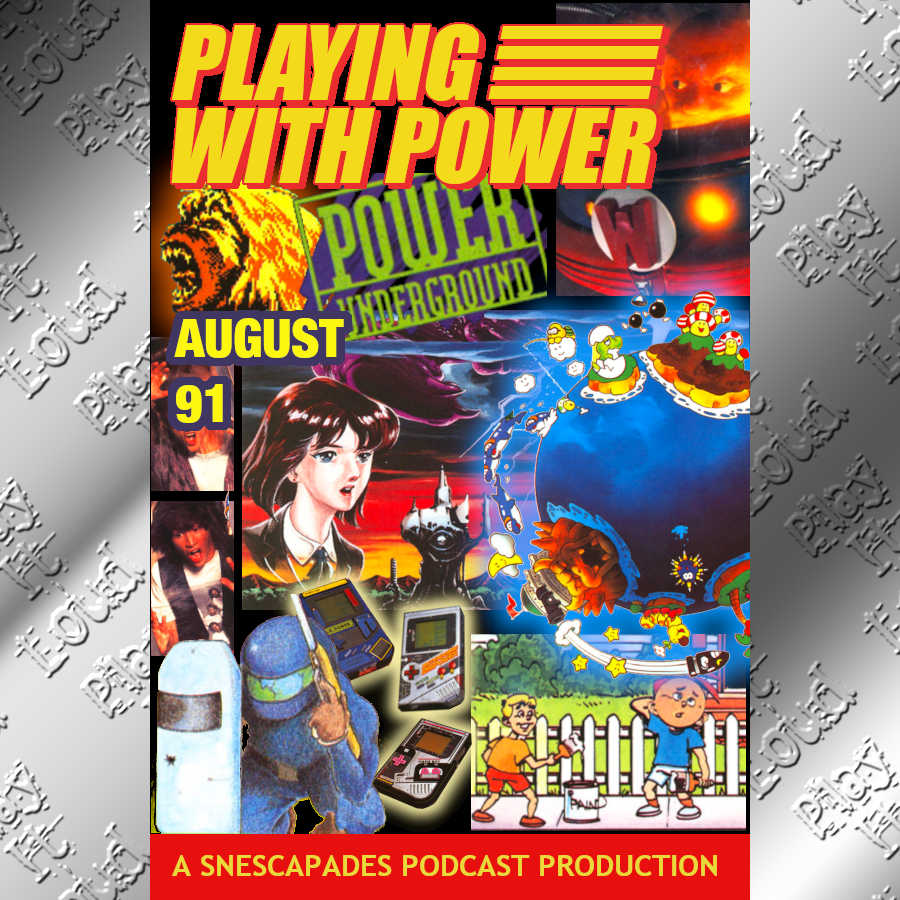
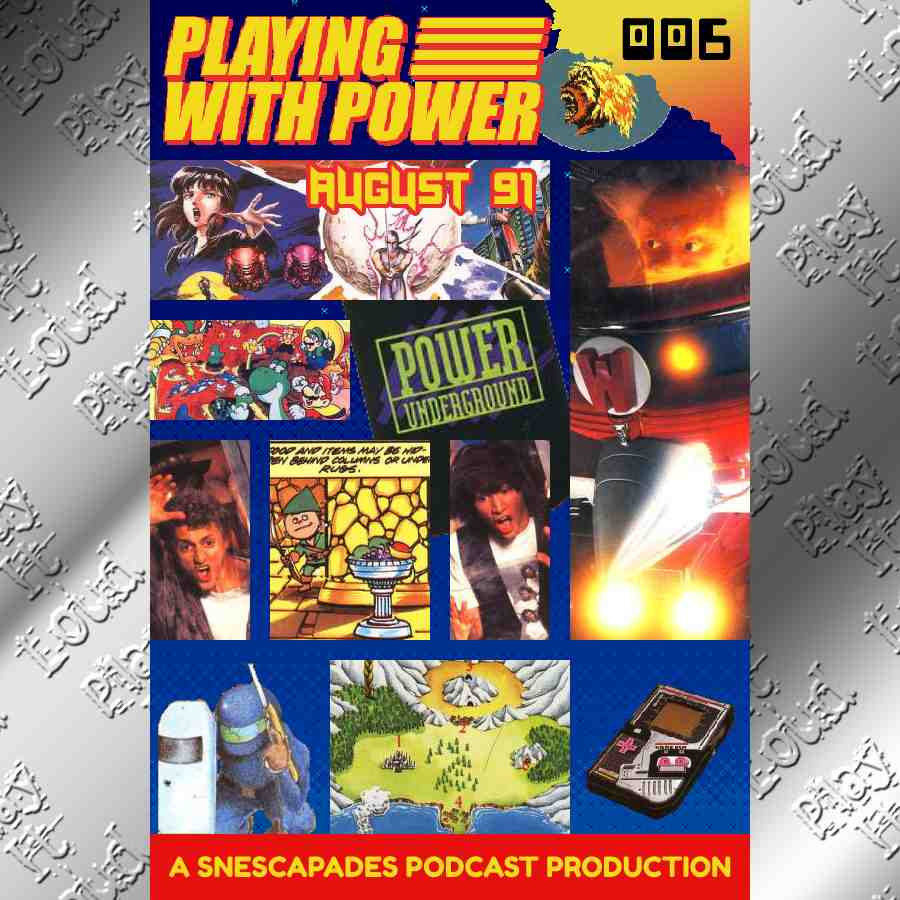
updated podcast images and added two episodes

diff --git a/server/data/episodes/snescapades.ts b/server/data/episodes/snescapades.ts
@@ -247,6 +247,37 @@ const snescapadesEps = [
     altText: playingWithPowerAlt("15th", "September 1991"),
     isPublished: true,
   },
+  {
+    episodeTitle: "Playing with Power: September 1991 (Part 2)",
+    episodeNumber: 16,
+    length: "53:46",
+    published: new Date(2024, monthEnum.mar, 28),
+    embedURL:
+      "https://podcasters.spotify.com/pod/show/honest-piranha/embed/episodes/Playing-with-Power-September-1991-Part-2-e2hn991",
+    youtubeURL: "https://youtu.be/djpD_crcy_c",
+    image: "016_Cover.jpg",
+    blog: "016_pwp_sept_91_2.md",
+    altText: playingWithPowerAlt("15th", "September 1991"),
+    isPublished: true,
+  },
+  {
+    episodeTitle: "U.N. Squadron Edition",
+    episodeNumber: 17,
+    length: "45:36",
+    published: new Date(2024, monthEnum.apr, 4),
+    embedURL:
+      "https://podcasters.spotify.com/pod/show/honest-piranha/embed/episodes/UN-Squadron-Edition-e2i1ajb",
+    youtubeURL: "https://youtu.be/3ycw8ITRaro",
+    image: "017_Cover.jpg",
+    blog: "017_un_squadron.md",
+    games: [27, 28, 29],
+    altText: snescapadesAlt(
+      "17th",
+      "the three selectable characters from UN Squadron",
+      '"UN Squadron", "Super R-Type", and "Drakkhen"'
+    ),
+    isPublished: true,
+  },
 ];
 
 export default snescapadesEps;

diff --git a/server/data/games.ts b/server/data/games.ts
@@ -170,6 +170,24 @@ const allGames = [
     mobyURL: "https://www.mobygames.com/game/9980/lufia-the-fortress-of-doom/",
     rank: "B",
   },
+  {
+    gameTitle: "UN Squadron",
+    manualURL: "https://archive.org/details/u.-n.-squadron-usa/mode/2up",
+    mobyURL: "https://www.mobygames.com/game/8061/un-squadron/",
+    rank: "A",
+  },
+  {
+    gameTitle: "Super R-Type",
+    manualURL: "https://archive.org/details/super-r-type-usa",
+    mobyURL: "https://www.mobygames.com/game/7148/super-r-type/",
+    rank: "B",
+  },
+  {
+    gameTitle: "Drakkhen",
+    manualURL: "https://archive.org/details/drakkhen-usa/mode/2up",
+    mobyURL: "https://www.mobygames.com/game/1969/drakkhen/",
+    rank: "D",
+  },
 ];
 
 export default allGames;

diff --git a/server/data/ranks.ts b/server/data/ranks.ts
@@ -84,12 +84,12 @@ const allRanks = {
     "Pilotwings",
     "Inspector Gadget",
     "Lufia & the Fortress of Doom",
+    "Super R-Type",
   ],
   C: [
     "Ys III: Wanderers from Ys",
     "Super Buster Bros.",
     "Joe & Mac",
-    "Super R-Type",
     "Magic Sword",
     "Dinocity",
     "Super Bomberman",

diff --git a/markdown/017_un_squadron.md b/markdown/017_un_squadron.md
@@ -1,0 +1,9 @@
+## Synopsis
+
+Hey everyone. Welcome to another episode of SNEScapades. We’re talking shooters today. Oh, and I guess Drakkhen’s here too.
+
+The early days of the SNES had plenty of shm’ups to play. Chase and Emmy were a little less kind to Gradius III than they were the first time they encountered it due to all of its slowdown. Today they’re talking about Super R-Type, which is a similar kind of shooter with classic arcade roots. Will it drop in the ranks like its contemporary or will it stay its original charted course? Hell, will they actually like it more? Who’s to say? Well, they are, but you have to listen to the episode to find out.
+
+Drakkhen is a strange game in the SNES library. It was rewarded for its uniqueness the first time around but Chase and Emmy’s opinion on the game sullied a bit over time. Find out where this strange RPG ultimately ends up.
+
+And finally, we’ve got a re-review of UN Squadron, a Capcom shooter that Emmy and Chase have thought highly of in the past. Listen to find out if they still hold it in such high regard on this episode of SNEScapades!

diff --git a/markdown/016_pwp_sept_91_2.md b/markdown/016_pwp_sept_91_2.md
@@ -1,0 +1,5 @@
+## Synopsis
+
+Hey everyone. Welcome back! It's time for the second part of Playing with Power for September 1991's issue of Nintendo Power. We talked about a lot of Mario World last week. This week we're talking about a whole lot of stuff. We've got Game Boy stuff (like Final Fantasy Adventure), NES stuff (like Kick Master), and more SNES stuff (like Castlevania.)
+
+There is so much stuff. Emmy talks about her encounter with American Gladiators, Chase ponders if anyone from The Simpsons actually signed off on Bart Simpson's "interview", and there's even some POGs in there. Er... sorry, they're "milk caps". POGs is a registered trademark. You won't wanna miss all this, come listen and feel free to follow along! You can read the magazine here (we start on the Smash TV feature). Don't forget, you can follow along with the [Internet Archive's copy of the issue here!](https://archive.org/details/NintendoPower1988-2004/Nintendo%20Power%20Issue%20028%20%28September%201991%29/)
